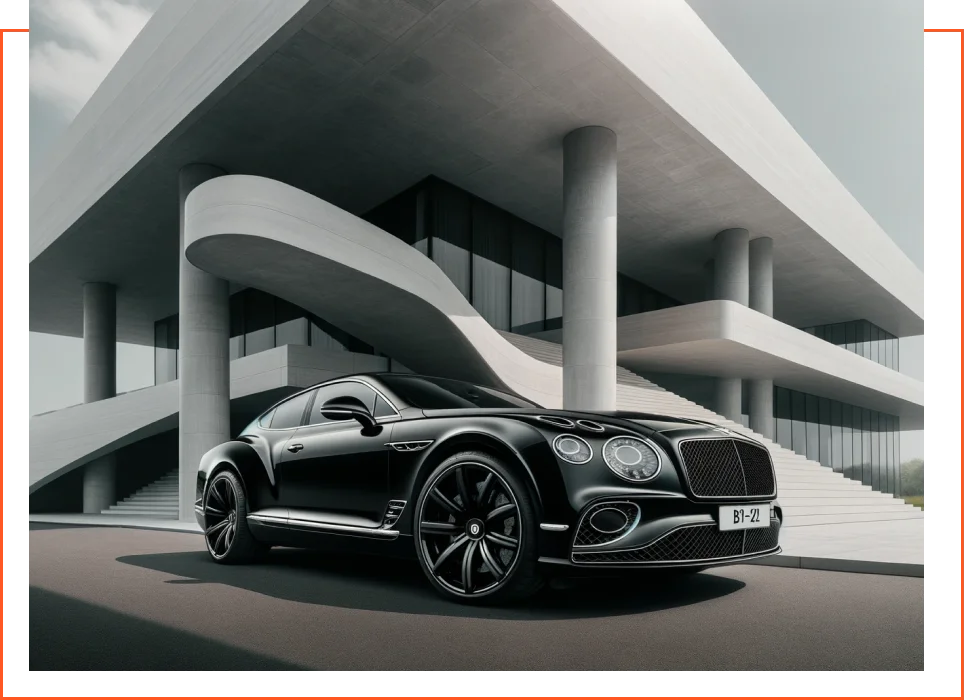
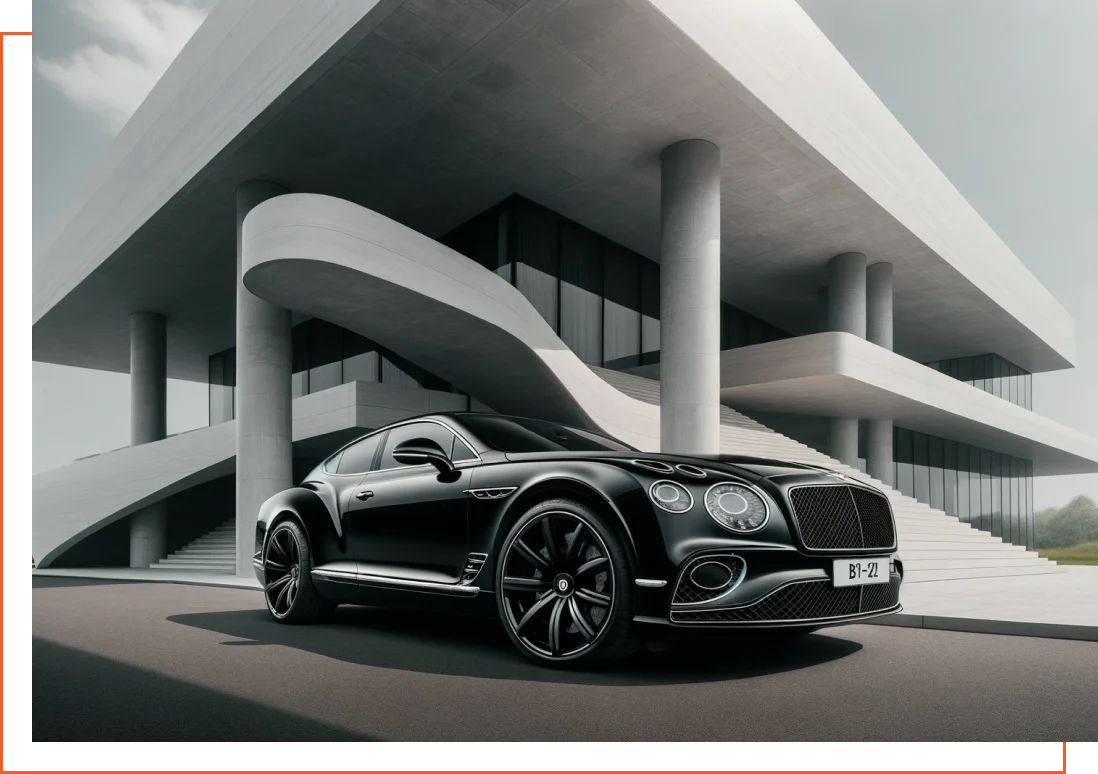
Version 1.3.8

diff --git a/src/components/PriceTable/styles/price-table.sass b/src/components/PriceTable/styles/price-table.sass
@@ -3,54 +3,100 @@
 .request-table
     width: 100%
     border: 3px solid $orange
-
-.request-table
-    width: 100%
     border-collapse: collapse
 
-.request-header
-    color: $black
-    font-family: Lato
-    font-size: $font18mob
-    font-style: normal
-    font-weight: 600
-    line-height: normal
-    text-transform: uppercase
-    text-align: center
-    font-weight: bold
-    background: rgba(255, 87, 34, 0.10)
-    padding-top: $m16mob
-    padding-bottom: $m16mob
-
-.request-data
-    color: $black
-    font-family: Lato
-    font-size: $font16mob
-    font-style: normal
-    font-weight: 600
-    line-height: normal
-
-.request-row-main
-    width: 100%
-    display: table-row
-    text-align: center
-    border: 3px solid $orange
-    background: rgba(255, 87, 34, 0.10)
+    .request-header
+        color: $black
+        font-family: Lato
+        font-size: $font18mob
+        font-style: normal
+        font-weight: 600
+        line-height: normal
+        text-transform: uppercase
+        text-align: center
+        font-weight: bold
+        background: rgba(255, 87, 34, 0.10)
+        padding-top: $m16mob
+        padding-bottom: $m16mob
 
     .request-data
-        width: 100%
-        border: none
-        padding-top: $m32mob
-        padding-bottom: $m32mob !important
+        color: $black
+        font-family: Lato
+        font-size: $font16mob
+        font-style: normal
+        font-weight: 600
+        line-height: normal
 
-.request-row-add
-    width: 100%
-    display: table-row
-    text-align: center
-    border: 3px solid $orange
-
-    .request-data
+    .request-row-main
         width: 100%
-        border: none
-        padding-top: $m32mob
-        padding-bottom: $m32mob !important
+        display: table-row
+        text-align: center
+        border: 3px solid $orange
+        background: rgba(255, 87, 34, 0.10)
+
+        .request-data
+            width: 100%
+            border: none
+            padding-top: $m32mob
+            padding-bottom: $m32mob !important
+
+    .request-row-add
+        width: 100%
+        display: table-row
+        text-align: center
+        border: 3px solid $orange
+
+        .request-data
+            width: 100%
+            border: none
+            padding-top: $m32mob
+            padding-bottom: $m32mob !important
+
+@media screen and  (min-width: 1024px)
+
+    .request-tbody
+        display: none
+
+    .request-table-pc
+        width: 100%
+        border: 3px solid $orange
+        border-collapse: collapse
+
+        .request-header
+            color: $black
+            font-family: Lato
+            font-size: clamp(12px,1.24992vw,48px)
+            font-style: normal
+            font-weight: 600
+            line-height: normal
+            text-transform: uppercase
+            text-align: center
+            font-weight: bold
+            background: rgba(255, 87, 34, 0.10)
+            padding-top: $m16
+            padding-bottom: $m16
+
+        .table-additional-heading
+            color: $black
+            font-family: Lato
+            font-size: clamp(10.5px,1.09368vw,42px)
+            font-style: normal
+            font-weight: 600
+            line-height: normal
+            text-align: center
+            padding-top: $m32
+            padding-bottom: $m32
+            background: rgba(255, 87, 34, 0.10)
+            border: 3px solid $orange
+
+        .table-additional-row
+            color: $black
+            font-family: Inter
+            font-size: $font18
+            font-style: normal
+            font-weight: 400
+            line-height: normal
+            text-align: center
+            padding-top: $m32
+            padding-bottom: $m32
+            border: 3px solid $orange

diff --git a/src/components/PriceTable/styles/price-table.css b/src/components/PriceTable/styles/price-table.css
@@ -3,14 +3,9 @@
 .request-table {
   width: 100%;
   border: 3px solid #FF5722;
-}
-
-.request-table {
-  width: 100%;
   border-collapse: collapse;
 }
-
-.request-header {
+.request-table .request-header {
   color: #2C2C2C;
   font-family: Lato;
   font-size: clamp(9px, 4.20552vw, 36px);
@@ -24,8 +19,7 @@
   padding-top: clamp(8px, 3.73824vw, 32px);
   padding-bottom: clamp(8px, 3.73824vw, 32px);
 }
-
-.request-data {
+.request-table .request-data {
   color: #2C2C2C;
   font-family: Lato;
   font-size: clamp(8px, 3.73824vw, 32px);
@@ -33,30 +27,78 @@
   font-weight: 600;
   line-height: normal;
 }
-
-.request-row-main {
+.request-table .request-row-main {
   width: 100%;
   display: table-row;
   text-align: center;
   border: 3px solid #FF5722;
   background: rgba(255, 87, 34, 0.1);
 }
-.request-row-main .request-data {
+.request-table .request-row-main .request-data {
+  width: 100%;
+  border: none;
+  padding-top: clamp(16px, 7.47648vw, 64px);
+  padding-bottom: clamp(16px, 7.47648vw, 64px) !important;
+}
+.request-table .request-row-add {
+  width: 100%;
+  display: table-row;
+  text-align: center;
+  border: 3px solid #FF5722;
+}
+.request-table .request-row-add .request-data {
   width: 100%;
   border: none;
   padding-top: clamp(16px, 7.47648vw, 64px);
   padding-bottom: clamp(16px, 7.47648vw, 64px) !important;
 }
 
-.request-row-add {
-  width: 100%;
-  display: table-row;
-  text-align: center;
-  border: 3px solid #FF5722;
-}
-.request-row-add .request-data {
-  width: 100%;
-  border: none;
-  padding-top: clamp(16px, 7.47648vw, 64px);
-  padding-bottom: clamp(16px, 7.47648vw, 64px) !important;
+@media screen and (min-width: 1024px) {
+  .request-tbody {
+    display: none;
+  }
+  .request-table-pc {
+    width: 100%;
+    border: 3px solid #FF5722;
+    border-collapse: collapse;
+  }
+  .request-table-pc .request-header {
+    color: #2C2C2C;
+    font-family: Lato;
+    font-size: clamp(12px, 1.24992vw, 48px);
+    font-style: normal;
+    font-weight: 600;
+    line-height: normal;
+    text-transform: uppercase;
+    text-align: center;
+    font-weight: bold;
+    background: rgba(255, 87, 34, 0.1);
+    padding-top: clamp(8px, 0.83328vw, 32px);
+    padding-bottom: clamp(8px, 0.83328vw, 32px);
+  }
+  .request-table-pc .table-additional-heading {
+    color: #2C2C2C;
+    font-family: Lato;
+    font-size: clamp(10.5px, 1.09368vw, 42px);
+    font-style: normal;
+    font-weight: 600;
+    line-height: normal;
+    text-align: center;
+    padding-top: clamp(16px, 1.66656vw, 64px);
+    padding-bottom: clamp(16px, 1.66656vw, 64px);
+    background: rgba(255, 87, 34, 0.1);
+    border: 3px solid #FF5722;
+  }
+  .request-table-pc .table-additional-row {
+    color: #2C2C2C;
+    font-family: Inter;
+    font-size: clamp(9px, 0.93744vw, 36px);
+    font-style: normal;
+    font-weight: 400;
+    line-height: normal;
+    text-align: center;
+    padding-top: clamp(16px, 1.66656vw, 64px);
+    padding-bottom: clamp(16px, 1.66656vw, 64px);
+    border: 3px solid #FF5722;
+  }
 }/*# sourceMappingURL=price-table.css.map */

diff --git a/src/components/PriceTable/PriceTable.tsx b/src/components/PriceTable/PriceTable.tsx
@@ -62,6 +62,25 @@ const PriceTable: React.FC<TableProps> = ({
           </td>
         </tr>
       </tbody>
+      <tbody className="request-table-pc">
+        <tr className="request-row">
+          <th className="request-header" colSpan={4}>
+            CITY RENT
+          </th>
+        </tr>
+        <tr>
+          <td className="table-additional-heading">City rent ($ / hour)</td>
+          <td className="table-additional-heading">Courtyard rent ($ / km)</td>
+          <td className="table-additional-heading">Minimal rent time</td>
+          <td className="table-additional-heading">Holiday Prices</td>
+        </tr>
+        <tr>
+          <td className="table-additional-row">{cityRent}</td>
+          <td className="table-additional-row">{courtyYard}</td>
+          <td className="table-additional-row">{minimalRentTime}</td>
+          <td className="table-additional-row">{holidayPrices}</td>
+        </tr>
+      </tbody>
     </table>
   );
 };

diff --git a/src/pages/Services/AirportTransfers/AirportTransfers.tsx b/src/pages/Services/AirportTransfers/AirportTransfers.tsx
@@ -60,9 +60,17 @@ const AirportTransfers = () => {
           transportation every time. Contact us today to book your next ride!
         </p>
         <div className="button-row">
-          <Button text="Explore Cars" scroll="" marginTop="mt32" />
+          <Button text="Order Now" scroll="" marginTop="mt32" />
         </div>
-        <img className="pc-img" src={service_pc} alt="pc-img" />
+        <img className="pc-img-service" src={service_pc} alt="pc-img" />
+        <div className="content-pc mt128">
+          <PriceTable
+            cityRent="136$"
+            courtyYard="102"
+            minimalRentTime="6"
+            holidayPrices="112"
+          />
+        </div>
       </div>
       <img className="img mt64" src={service} alt="img" />
       <div className="content mt64">

diff --git a/src/pages/Services/AirportTransfers/styles/airport-styles.css b/src/pages/Services/AirportTransfers/styles/airport-styles.css
@@ -14,4 +14,10 @@
     line-height: normal;
     text-transform: capitalize;
   }
+  .pc-img-service {
+    position: absolute;
+    width: clamp(382px, 39.78912vw, 1528px) !important;
+    height: clamp(250px, 26.04vw, 1000px) !important;
+    right: 0;
+  }
 }/*# sourceMappingURL=airport-styles.css.map */

diff --git a/src/pages/Services/AirportTransfers/styles/airport-styles.sass b/src/pages/Services/AirportTransfers/styles/airport-styles.sass
@@ -13,3 +13,9 @@
         font-weight: 600
         line-height: normal
         text-transform: capitalize
+
+    .pc-img-service
+        position: absolute
+        width: clamp(382px,39.789120000000004vw,1528px) !important
+        height: clamp(250px,26.04vw,1000px) !important
+        right: 0
